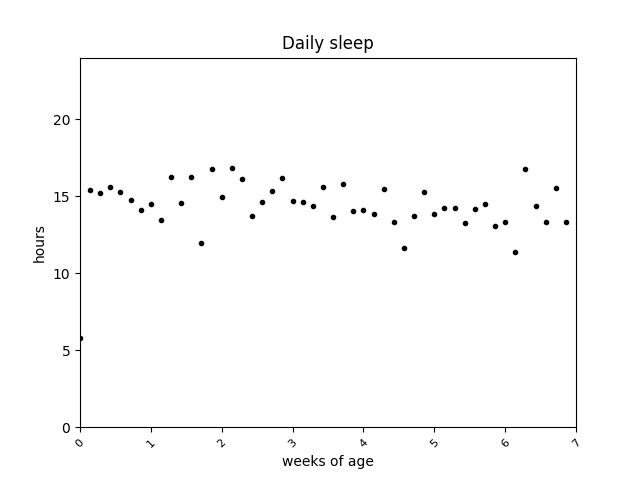
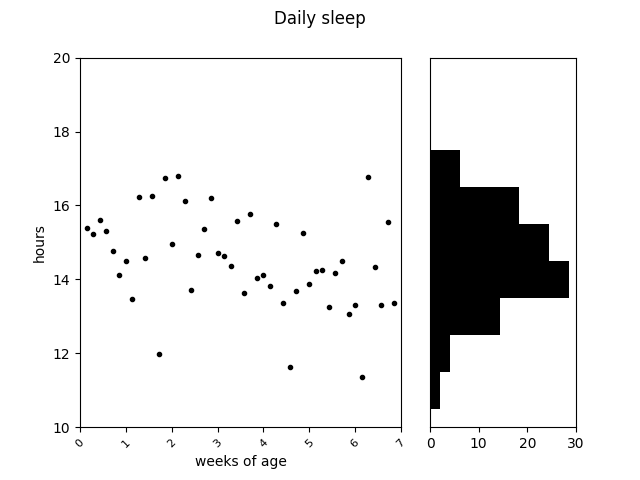
added histogram to total sleep

diff --git a/datita.py b/datita.py
@@ -432,11 +432,21 @@ def plot_sleep_24(data_sleep_24):
             total_sleep_24.append(data_sleep_24[i][2]/60.)
 
     plt.figure()
-    plt.title('Daily sleep')
+    plt.suptitle('Daily sleep')
+    gridspec.GridSpec(3,3)
+
+    plt.subplot2grid((3,3), (0,0), colspan=2, rowspan=3)
     week_ticks(data_sleep_24, label_type)
-    plt.ylim([0, 24.])
+    plt.ylim([10, 20.])
     plt.ylabel('hours')
     plt.plot(sleep_dates, total_sleep_24, 'k.')
+
+    plt.subplot2grid((3,3), (0,2), colspan=1, rowspan=3)
+    plt.ylim([10, 20.])
+    weights = numpy.ones_like(total_sleep_24)/len(total_sleep_24)*100.
+    plt.hist(total_sleep_24, bins=numpy.arange(9.50, 21.50, 1), weights=weights, histtype='stepfilled', color='k', orientation='horizontal')
+    plt.yticks([])
+
     plt.savefig('sleep_total.png')
 
 
